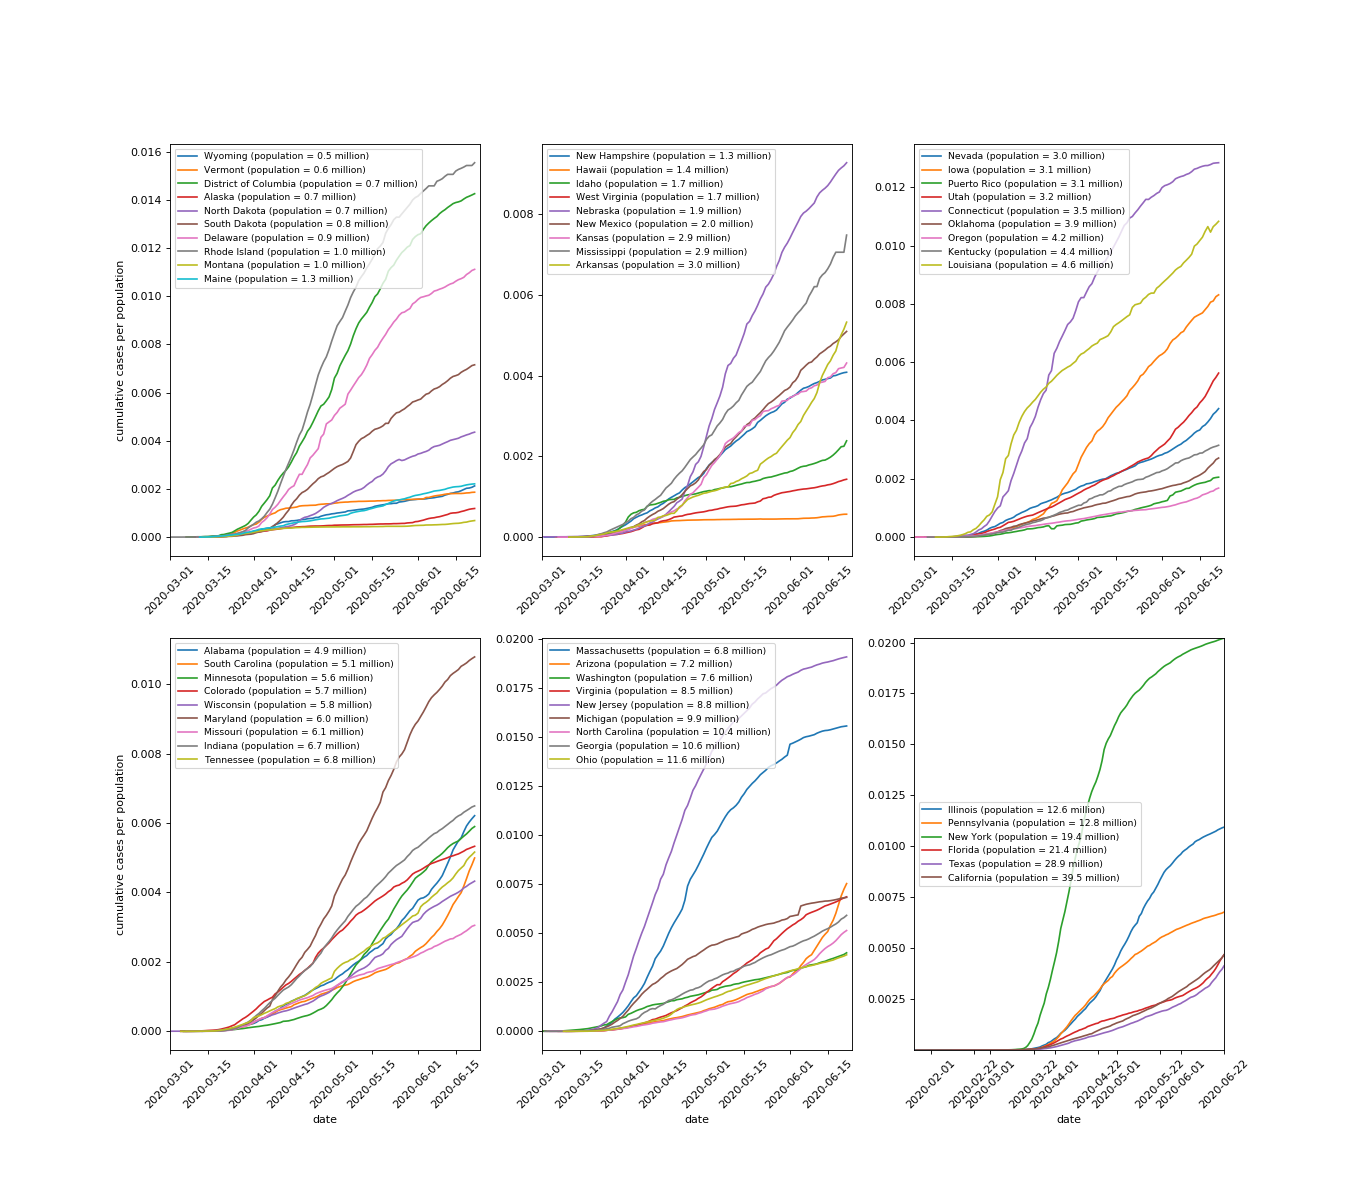
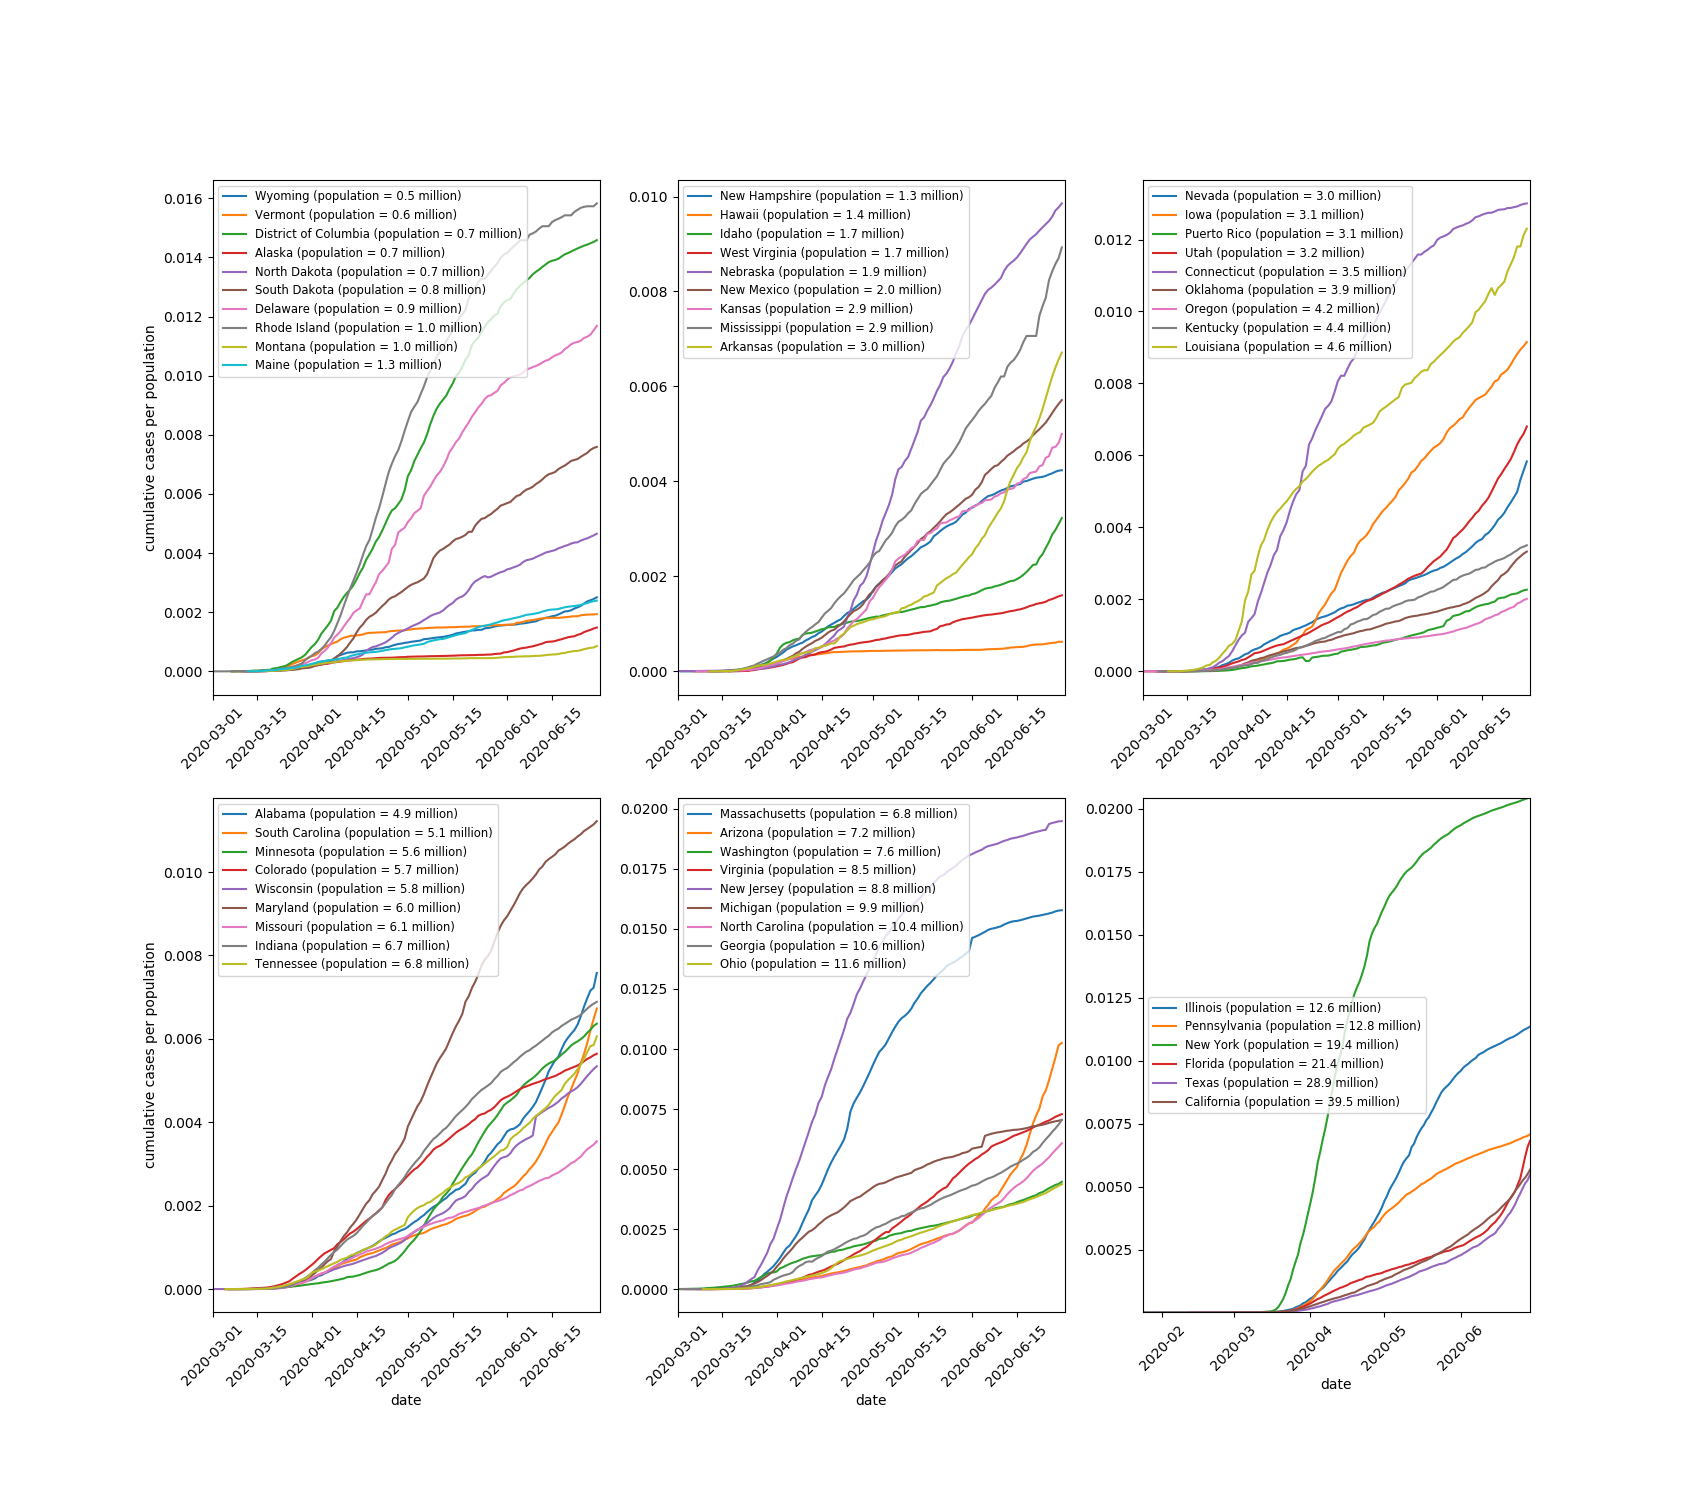
updated graphs

diff --git a/mkfigs.py b/mkfigs.py
@@ -12,6 +12,7 @@ import requests, pandas, io, numpy as np, datetime, matplotlib.pyplot as plt
 leg_pop=True
 #how many graphs?
 n=6
+avgdys = 14
 
 #%%step through options. 8 total plots
 for norm in [False, True]:
@@ -48,10 +49,10 @@ for norm in [False, True]:
                 state_names=state_names[bypop]
                 
                 statesper=np.ceil(len(state_names)/n)#states per graph
-                labelstring=(not cumulate)*"3 day avg new "  + cumulate*"cumulative " + interest + norm*" per population" +log_scale*" (log-10 scale)"
+                labelstring=(not cumulate)*(str(avgdys)+" day avg new ")  + cumulate*"cumulative " + interest + norm*" per population" +log_scale*" (log-10 scale)"
                 subind=1
                 these_states=[] #variable keeps state names by plot for the legend
-                plt.figure(figsize=(17, 15), dpi= 80, facecolor='w', edgecolor='k')
+                plt.figure(figsize=(17, 15), dpi= 100, facecolor='w', edgecolor='k')
                 most=0
                 for i in range(len(state_names)):
                     #if starting new subgraph, set the subplot
@@ -78,8 +79,9 @@ for norm in [False, True]:
                     if not cumulate:
                         change=np.diff(to_plot)
                         dates=dates[1:]
-                        to_plot = np.convolve(change,[1/3,1/3,1/3],'valid')
-                        dates=dates[2:]
+                        c = np.ones(avgdys)/avgdys
+                        to_plot = np.convolve(change,c,'valid')
+                        dates=dates[-len(to_plot):]
                         
                     
                     #do we want to normalize
